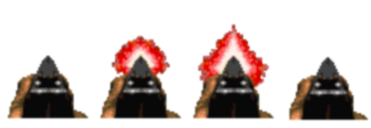
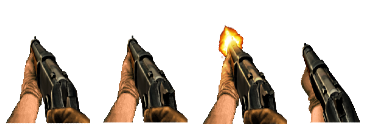
commit

diff --git a/src/hud_loader.c b/src/hud_loader.c
@@ -68,10 +68,12 @@ static void			load_hud_font(t_main *m, const char *path, size_t size)
 
 void				load_hud(t_main *m)
 {
+	m->hud.type_of_weapon = 1;
 	if (TTF_Init())
 		MSG(TTF_GetError());
 	load_hud_texture(&m->hud.surface_hud, "assets/hud/hud.png");
 	load_hud_texture(&m->hud.gun_surface, "assets/hud/pistol.png");
+	load_hud_texture(&m->hud.gun_surface2, "assets/hud/pistol_2.png");
 	load_hud_font(m, "assets/fonts/auto_digital.ttf", 42);
 }
 

diff --git a/inc/structure.h b/inc/structure.h
@@ -262,10 +262,15 @@ typedef struct		s_hud
 	char			*font_source;
 	SDL_Rect		hud_rect;
 	SDL_Surface		*gun_surface;
+	SDL_Surface		*gun_surface2;
 	SDL_Texture		*gun_sprite;
+	SDL_Texture		*gun_sprite2;
 	SDL_Rect		curr_sprite;
+	SDL_Rect		curr_sprite2;
 	SDL_Rect		all_sprites;
+	SDL_Rect		all_sprites2;
 	short			boom;
+	int				type_of_weapon;
 }					t_hud;
 
 typedef struct		s_menu
